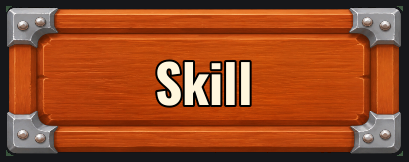
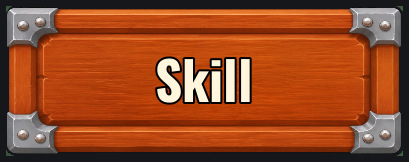
fix(ui): optically center combat action labels
[SVN-REV]: Unversioned directory

Changed region(s): [[0.3814, 0.3395, 0.6161, 0.679]]

diff --git a/Source/P_RD/UI/Combat/CombatLayoutHUDWidget.cpp b/Source/P_RD/UI/Combat/CombatLayoutHUDWidget.cpp
@@ -29,6 +29,7 @@
 #include "Engine/TextureRenderTarget2D.h"
 #include "EngineUtils.h"
 #include "FunctionLibrary/CameraFunctionLibrary.h"
+#include "Internationalization/Internationalization.h"
 #include "Pawn/Camera/CombatCameraPawn.h"
 #include "Components/SceneCaptureComponent2D.h"
 #include "UI/Combat/CombatUIModel.h"
@@ -368,6 +369,7 @@ void UCombatLayoutHUDWidget::NativeConstruct()
 	Super::NativeConstruct();
 
 	CacheAuthoredWidgets();
+	ApplyActionLabelOpticalAlignment();
 	EnsureMercenarySkillButtons();
 	WireCommands();
 	EnsureCombatAnnouncementWidgets();
@@ -3224,6 +3226,8 @@ void UCombatLayoutHUDWidget::RefreshScreenScale()
 
 void UCombatLayoutHUDWidget::RefreshActionButtons()
 {
+	ApplyActionLabelOpticalAlignment();
+
 	const ECombatBuildPhaseUI Phase = mUIModel != nullptr
 		? mUIModel->GetTurnUI().mPhase : ECombatBuildPhaseUI::None;
 
@@ -3244,6 +3248,43 @@ void UCombatLayoutHUDWidget::RefreshActionButtons()
 	SetShown(mSkillTogglePlate, bSkillButtonShown);
 	SetShown(mSkillToggleLabel, bSkillButtonShown);
 }
+
+void UCombatLayoutHUDWidget::ApplyActionLabelOpticalAlignment()
+{
+	// Overlay/TextBlock의 레이아웃 박스는 버튼 중심과 0.5px 이내로 이미 맞는다.
+	// 다만 합성 글꼴의 ascent/descent 때문에 실제 잉크는 ko 약 5px, en 약
+	// 2.5px 아래에 그려진다. 라벨 슬롯의 아래 여백을 더 줘 같은 양만 위로
+	// 올린다. 문자열이 동적으로 바뀌어도 같은 언어/글꼴 메트릭을 그대로 쓴다.
+	const FString CultureName =
+		FInternationalization::Get().GetCurrentCulture()->GetName();
+	const float OffsetY = CultureName.StartsWith(TEXT("ko"), ESearchCase::IgnoreCase)
+		? -5.f : -2.5f;
+
+	auto ApplyOffset = [OffsetY](UWidget* Label)
+	{
+		if (Label == nullptr)
+		{
+			return;
+		}
+		if (UOverlaySlot* Slot = Cast<UOverlaySlot>(Label->Slot))
+		{
+			const FMargin Padding = Slot->GetPadding();
+			Slot->SetPadding(FMargin(Padding.Left, Padding.Top, Padding.Right,
+				Padding.Top - 2.f * OffsetY));
+		}
+	};
+
+	ApplyOffset(mSkillToggleLabel);
+	ApplyOffset(mEndTurnLabel);
+}
+
+#if WITH_EDITOR
+void UCombatLayoutHUDWidget::ApplyActionLabelOpticalAlignmentForCapture()
+{
+	CacheAuthoredWidgets();
+	ApplyActionLabelOpticalAlignment();
+}
+#endif
 
 /** @brief 가운데 AP 막대를 지금 차례인 유닛으로 채운다. */
 void UCombatLayoutHUDWidget::RefreshTurnActionPoints()

diff --git a/Source/P_RD/UI/Combat/CombatLayoutHUDWidget.h b/Source/P_RD/UI/Combat/CombatLayoutHUDWidget.h
@@ -111,6 +111,11 @@ class P_RD_API UCombatLayoutHUDWidget : public UCombatUIWidgetBase
 	GENERATED_BODY()
 
 public:
+#if WITH_EDITOR
+	/** @brief 오프스크린 WBP 감사도 실제 게임과 같은 글자 보정을 적용한다. */
+	void ApplyActionLabelOpticalAlignmentForCapture();
+#endif
+
 	UCombatLayoutHUDWidget(const FObjectInitializer& ObjectInitializer = FObjectInitializer::Get());
 
 	/**
@@ -1293,6 +1298,8 @@ private:
 
 	/** @brief 확정 단추와 턴 종료 글자를 지금 단계에 맞춘다. */
 	void RefreshActionButtons();
+	/** @brief 현재 언어 글꼴의 실제 잉크 중심을 목재 행동 버튼 중심에 맞춘다. */
+	void ApplyActionLabelOpticalAlignment();
 
 	/* ── 쓸 행동력 미리 보이기 ────────────────────────────────────────────
 	 *

diff --git a/Source/P_RDTests/UI/CombatLayoutCaptureTests.cpp b/Source/P_RDTests/UI/CombatLayoutCaptureTests.cpp
@@ -639,6 +639,10 @@ namespace CombatLayoutCapture
 		}
 		Layout->SetVisibility(ESlateVisibility::SelfHitTestInvisible);
 		const TSharedRef<SWidget> LayoutSlate = Layout->TakeWidget();
+		if (UCombatLayoutHUDWidget* CombatHUD = Cast<UCombatLayoutHUDWidget>(Layout))
+		{
+			CombatHUD->ApplyActionLabelOpticalAlignmentForCapture();
+		}
 		Layout->ForceLayoutPrepass();
 		ResidentBrushTextures(*Layout);
 
@@ -843,6 +847,10 @@ namespace CombatLayoutCapture
 		}
 		Layout->SetVisibility(ESlateVisibility::SelfHitTestInvisible);
 		const TSharedRef<SWidget> LayoutSlate = Layout->TakeWidget();
+		if (UCombatLayoutHUDWidget* CombatHUD = Cast<UCombatLayoutHUDWidget>(Layout))
+		{
+			CombatHUD->ApplyActionLabelOpticalAlignmentForCapture();
+		}
 		if (UMercenaryHireWidget* Hire = Cast<UMercenaryHireWidget>(Layout))
 		{
 			Hire->ApplyResponsiveLayoutForTest(
